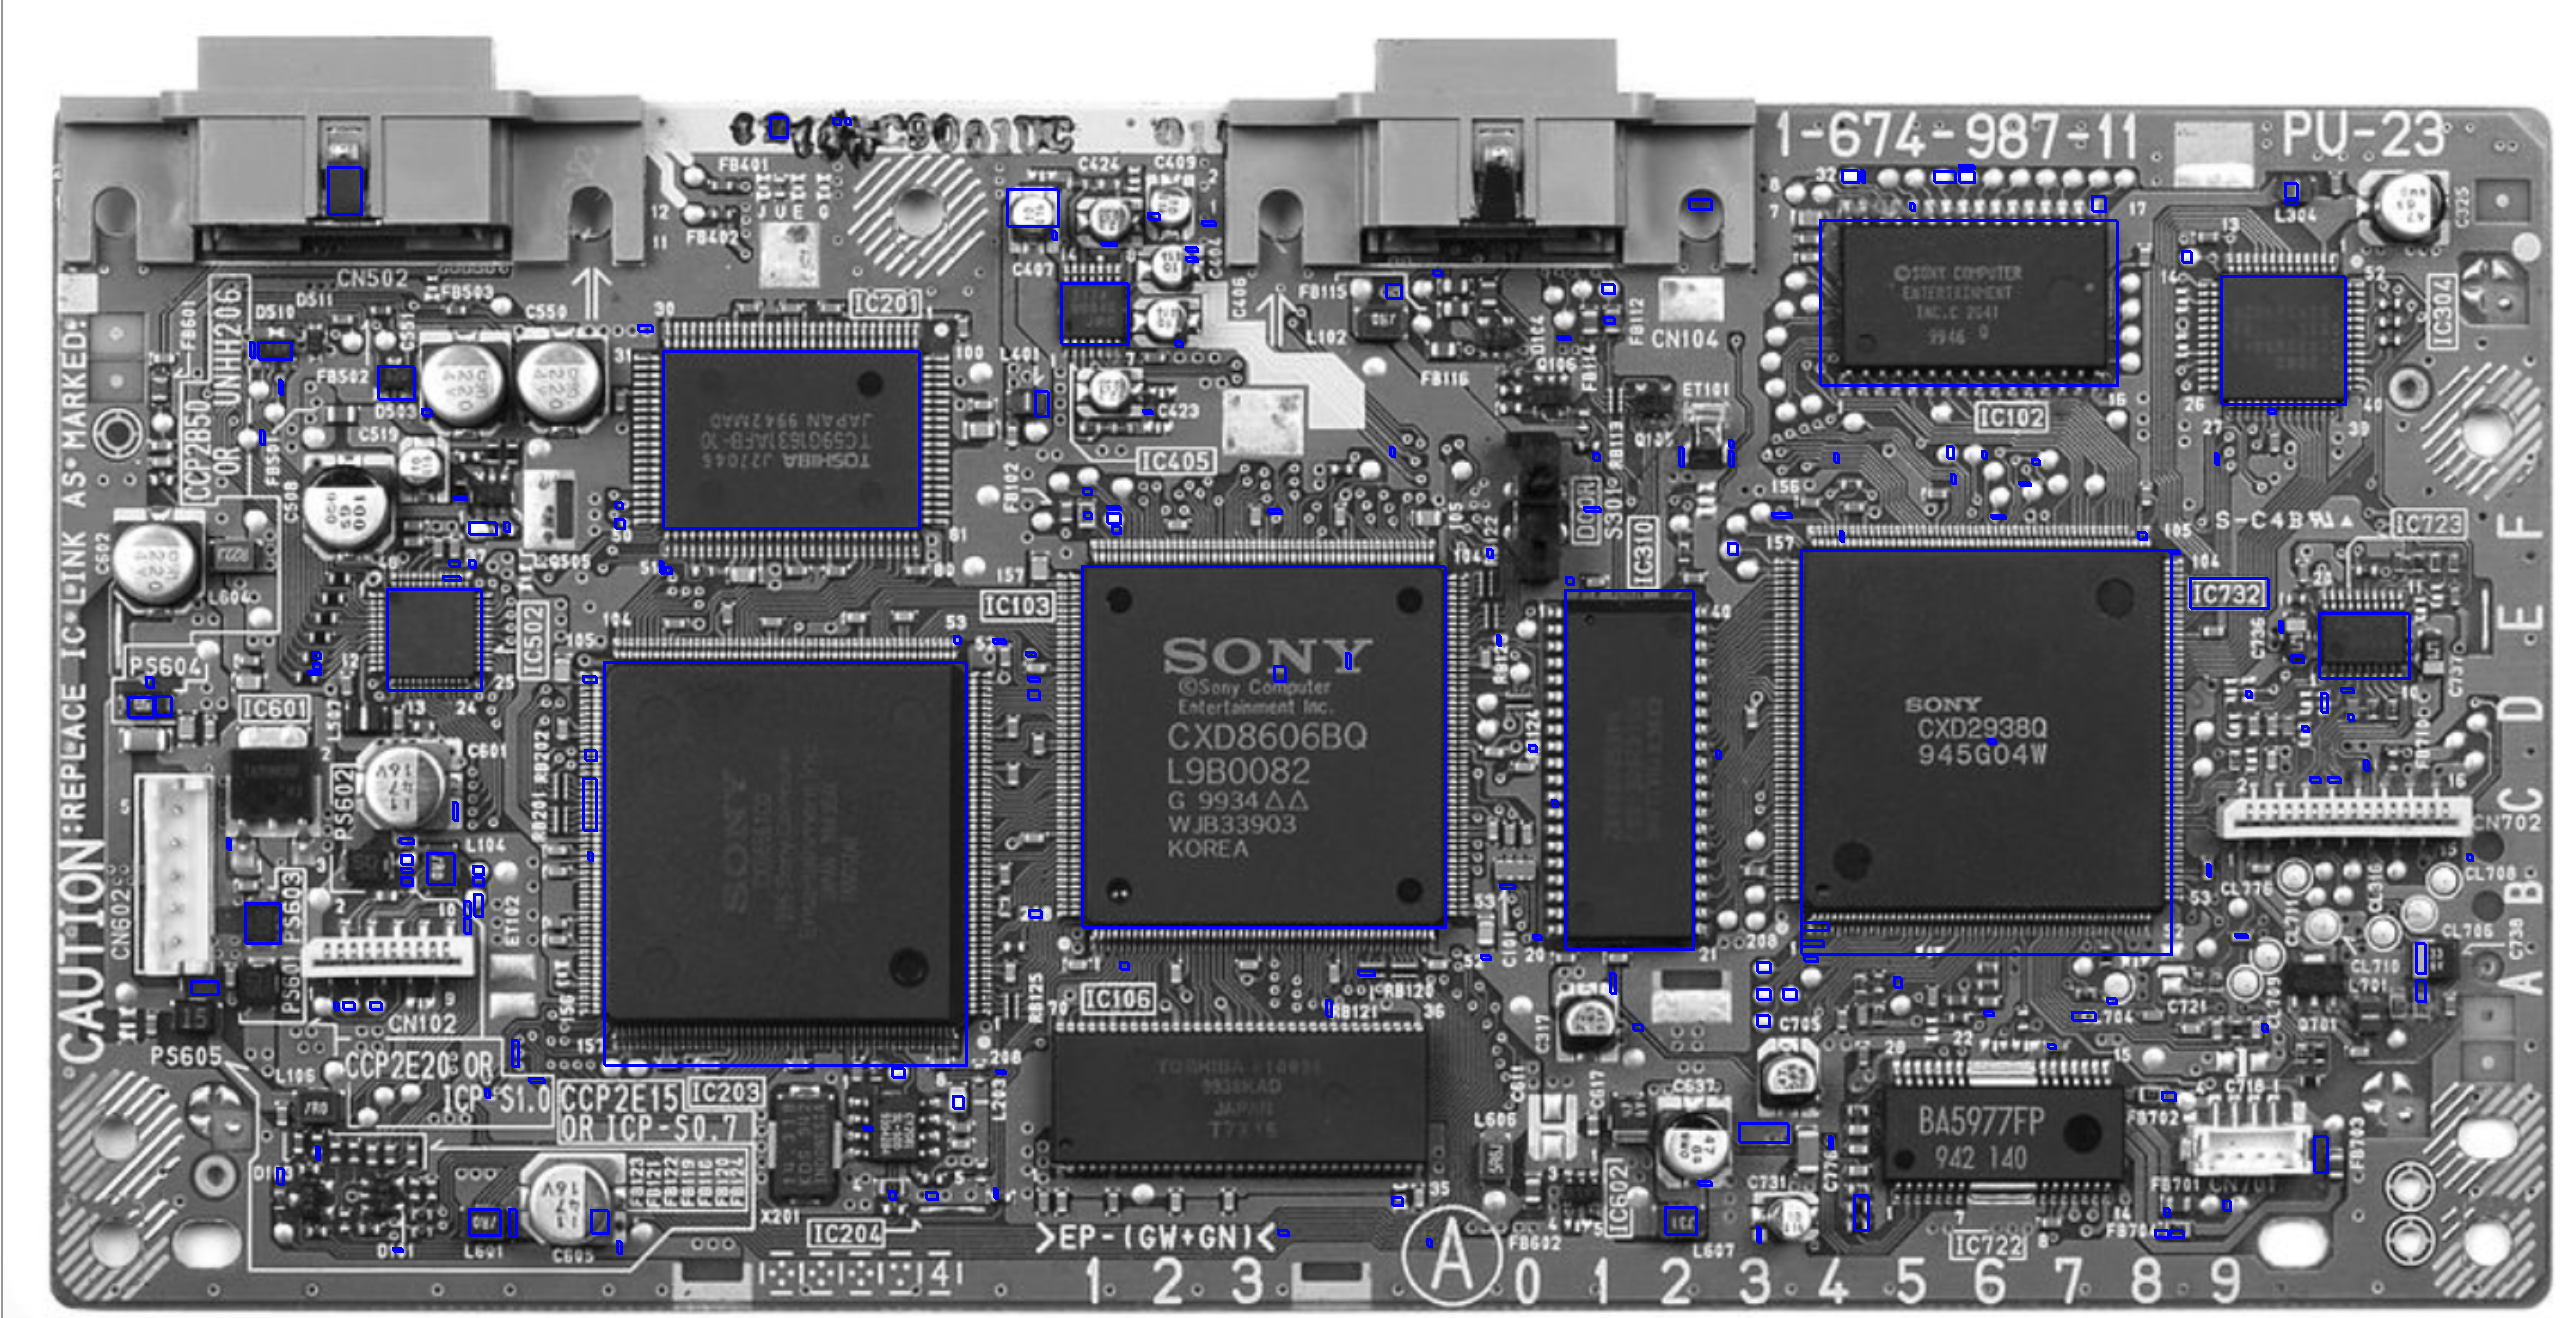
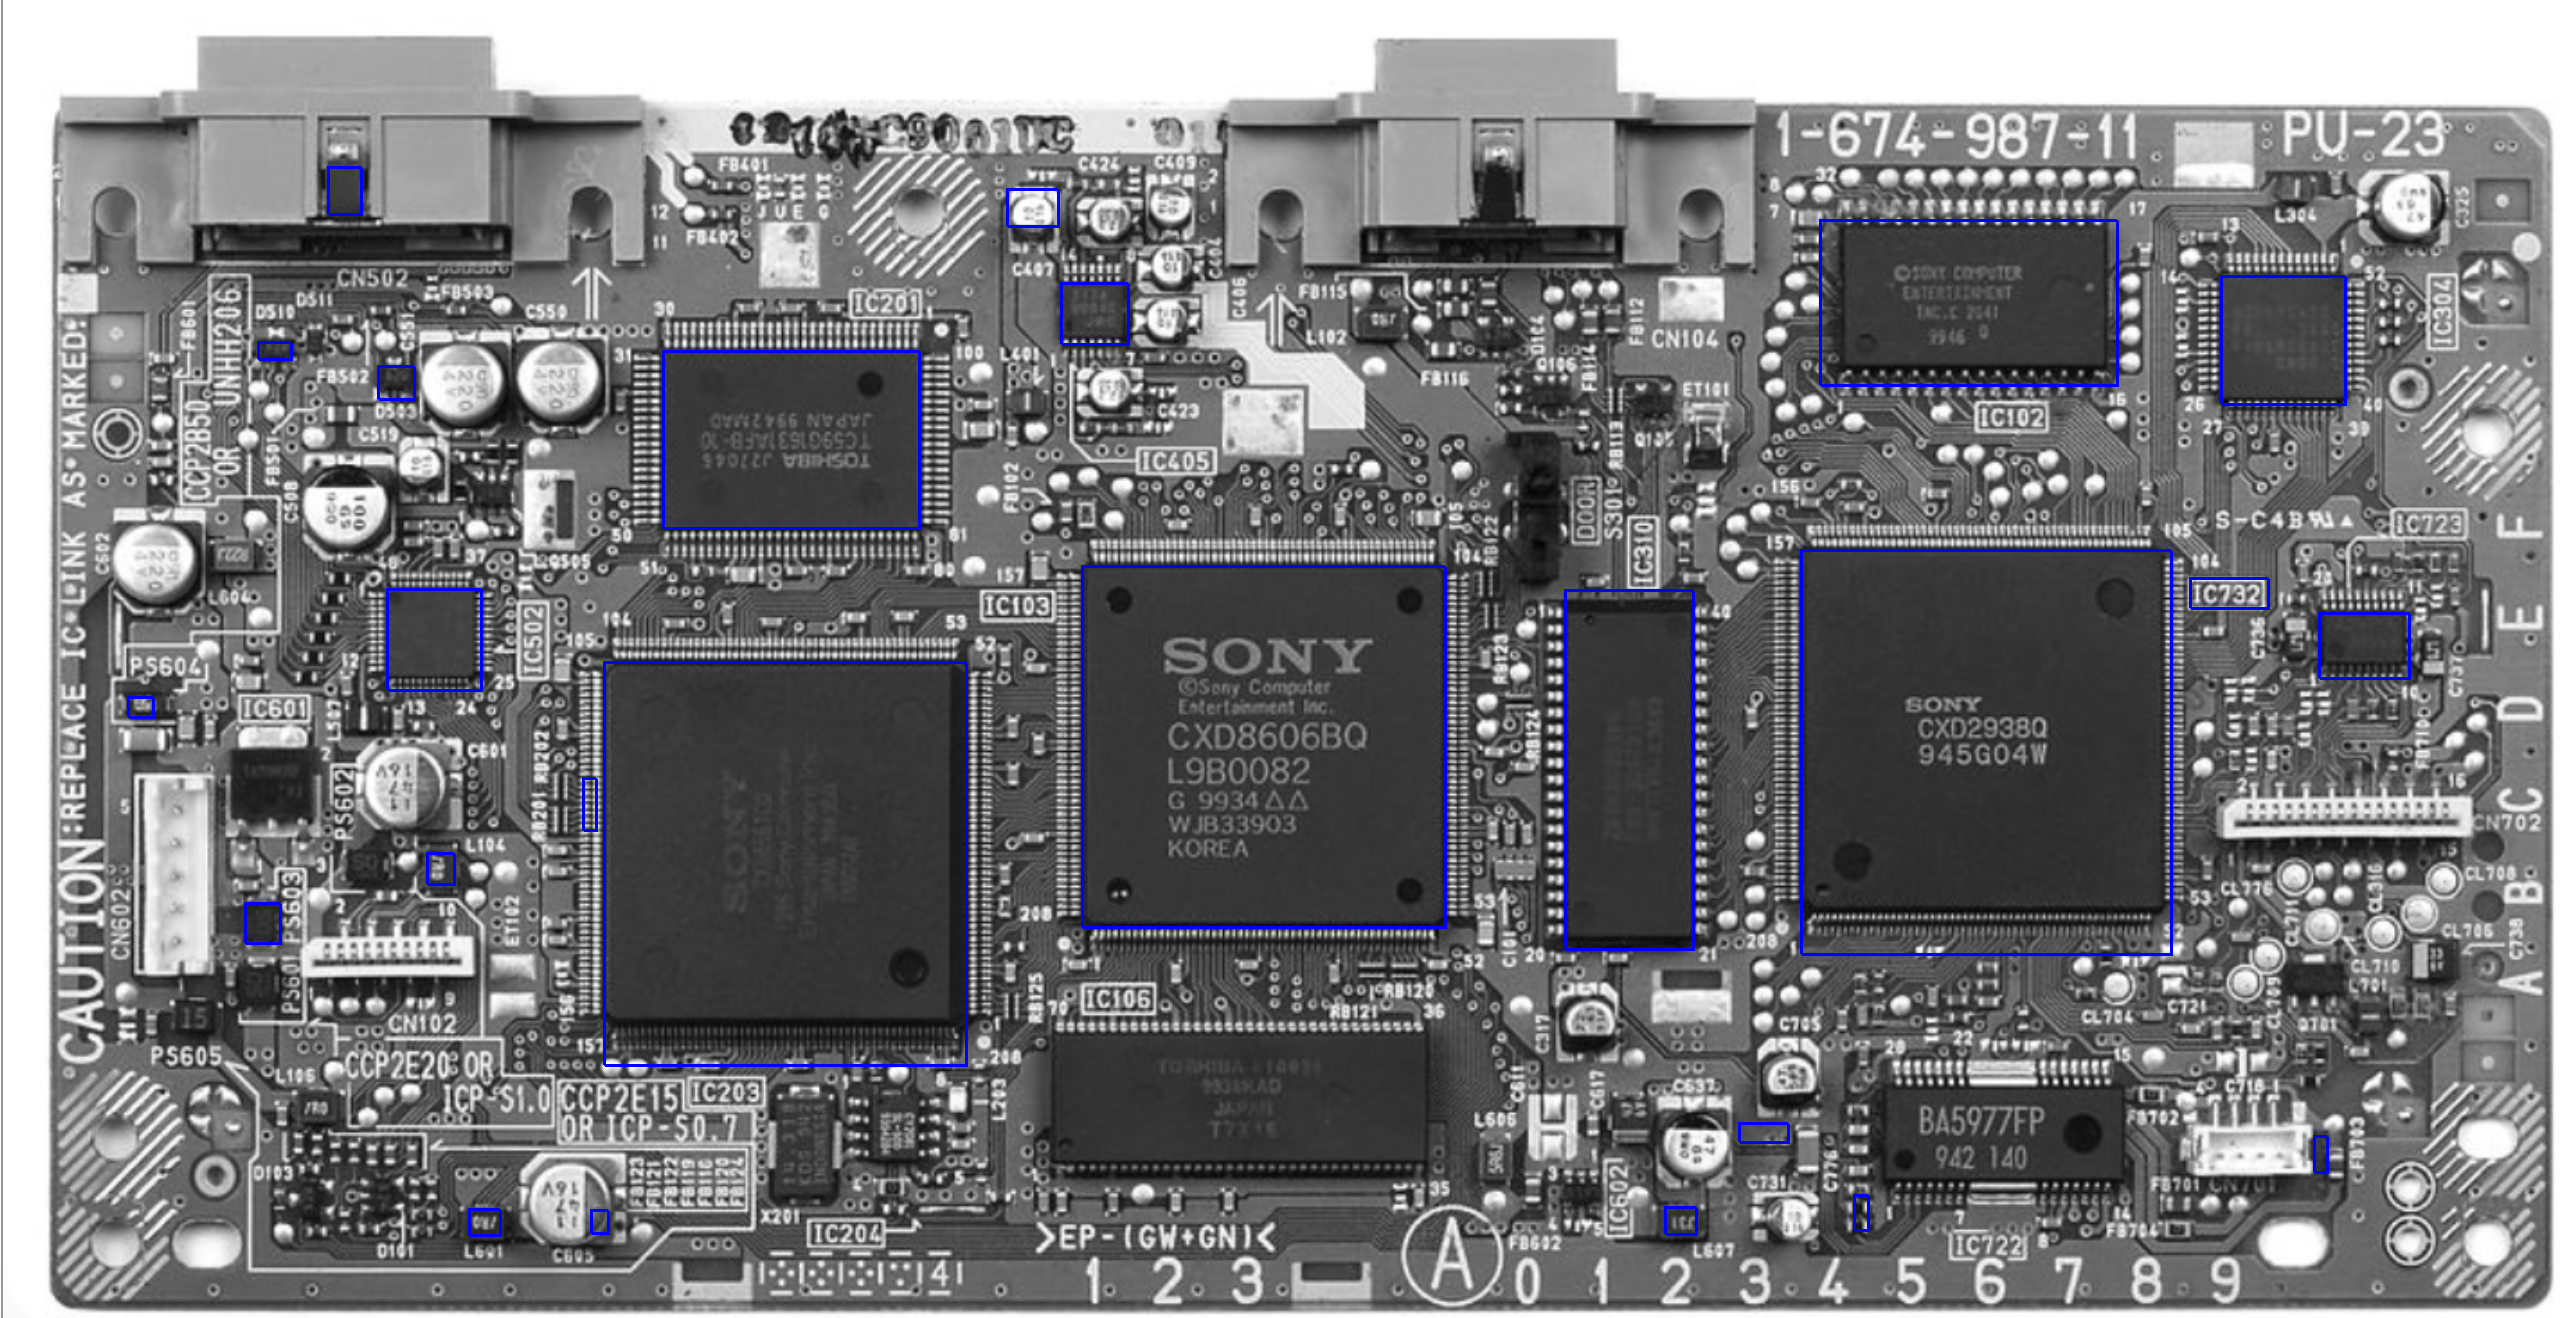
updated detection parameters and detected images

Changed region(s): [[0.7485, 0.1244, 0.7797, 0.1555], [0.4055, 0.3733, 0.4366, 0.4044], [0.1559, 0.6533, 0.1871, 0.6844]]

diff --git a/part2/detect.cpp b/part2/detect.cpp
@@ -672,7 +672,7 @@ vector<DetectedBox> check_if_box(SDoublePlane &filled_mat,
   printf("%d\n", right_col_index);
   */
 
-  float min_percent_filled = 0.8;
+  float min_percent_filled = 0.7;
   int max_proportion = 4; // max proportion (to 1) of height:width or width:height
 
   int filled = 0;
@@ -701,7 +701,7 @@ vector<DetectedBox> check_if_box(SDoublePlane &filled_mat,
   
   // check size of box and dimensions (proportion of height to width)
   int image_area = filled_mat.rows() * filled_mat.cols();
-  int min_size = 40;
+  int min_size = 450;
   int max_size = image_area / 4;
   if (shape_area > max_size ||
       shape_area < min_size ||
